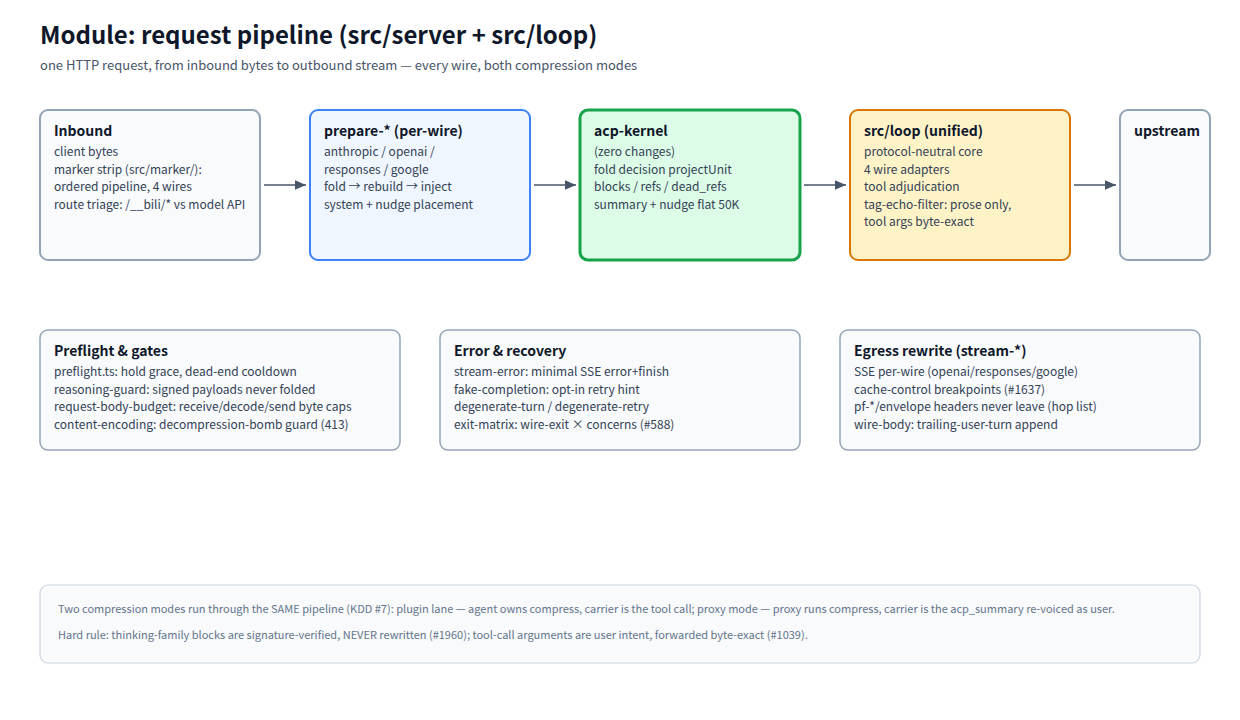
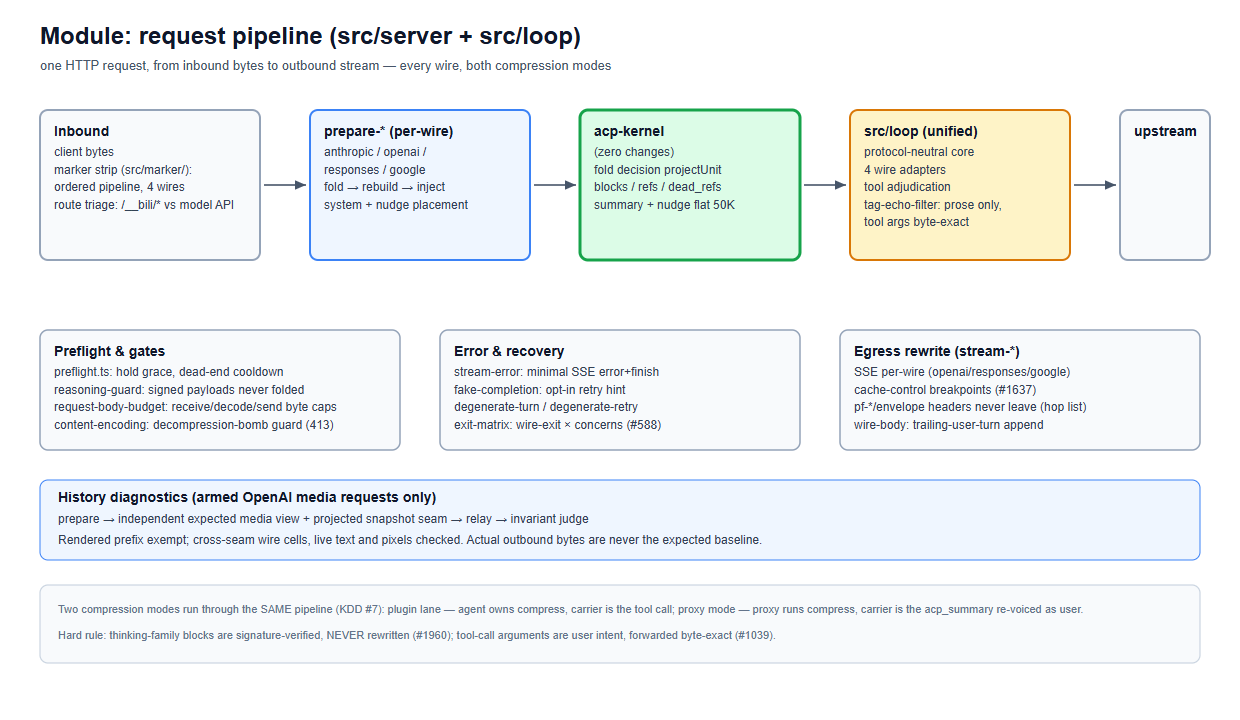
docs: map snapshot media diagnostics through the request pipeline
Assisted-by: Cindy (https://cindy.app)

diff --git a/docs/architecture/pipeline.md b/docs/architecture/pipeline.md
@@ -21,6 +21,8 @@ Every model-traffic request that reaches the proxy passes through this module: i
 
 **Prepare (per-wire).** `prepare-anthropic` / `prepare-openai` / `prepare-responses` / `prepare-google` convert the request to canonical cores (in-flight envelope fields such as host msgids are stripped here — see [identity](./identity.md)), run the fold→rebuild→injection sequence, and place the system message and the nudge where that wire requires it.
 
+**History diagnostics (OpenAI media).** When armed, `judge-media-projection.ts` independently constructs expected media bytes under the preparation lock. A snapshot tail boundary is mapped through resizing and wire merging; a wire cell crossing the seam remains checked in full. Relay passes the captured view/boundary and trusted image-transform receipts to `invariant-judge.ts`. The rendered prefix is exempt from tail fidelity, while changed live text or pixels fail. This diagnostic path never derives its expected bytes from the actual outbound body and never changes that body.
+
 **Kernel.** The canonical cores plus the session's `CompressionState` go to acp-kernel; the decision and its artifacts come back — see the [kernel module](./kernel.md).
 
 **Unified loop (`src/loop`).** A protocol-neutral core with four wire adapters performs tool adjudication and the prose tag-echo filter (`tag-echo-filter.ts` — prose only, arguments untouched). This is where the two compression modes keep the same code path (KDD #7): plugin mode suppresses tool + nudge injection because the agent owns compression; proxy mode emits the `acp_summary` carrier, re-voiced as a user message so strict backends keep a stable prefix.

diff --git a/docs/architecture/pipeline.zh-CN.md b/docs/architecture/pipeline.zh-CN.md
@@ -21,6 +21,8 @@
 
 **准备（按 wire）。** `prepare-anthropic` / `prepare-openai` / `prepare-responses` / `prepare-google` 把请求转成 canonical cores（宿主 msgid 等 in-flight 信封字段在此剥掉——见 [identity](./identity.zh-CN.md)），跑折叠→重建→注入，把 system 与 nudge 落到该 wire 要求的位置。
 
+**历史诊断（OpenAI 媒体）。** 启用检查时，`judge-media-projection.ts` 在准备锁内独立构造预期媒体字节。快照尾部边界经过缩图和 wire 合并后重新定位；跨越边界的 wire 消息整体纳入检查。Relay 将捕获的预期视图、边界和可信图片变换凭据交给 `invariant-judge.ts`。服务端渲染前缀豁免尾部保真检查，但修改实时文本或像素仍会失败。预期字节不从实际出站包推导，此诊断路径也不改写出站包。
+
 **内核。** canonical cores 加会话的 `CompressionState` 进 acp-kernel，判定与产物回来——见 [kernel 模块](./kernel.zh-CN.md)。
 
 **统一 loop（`src/loop`）。** 协议中立核心 + 4 个 wire 适配器，做工具裁决与散文 tag-echo 过滤（`tag-echo-filter.ts`——只滤散文、参数不动）。两种压缩模式在这里共用同一条代码路径（KDD #7）：plugin 模式抑制 tool + nudge 注入（agent 自己压）；proxy 模式发 `acp_summary` 载体、改口为 user 消息，让严格后端保持前缀稳定。

diff --git a/docs/architecture.zh-CN.md b/docs/architecture.zh-CN.md
@@ -21,7 +21,7 @@
 | 模块 | 一句话 | 页面 | 状态 |
 |---|---|---|---|
 | `storage` | 统一 SQLite 存储（表族 / kstate / ckpt / GC） | [storage.zh-CN.md](./architecture/storage.zh-CN.md) · [EN](./architecture/storage.md) | ✅ |
-| `pipeline` | 请求管道（handle / prepare-* / relay / inject） | [pipeline.zh-CN.md](./architecture/pipeline.zh-CN.md) · [EN](./architecture/pipeline.md) | ✅ |
+| `pipeline` | 请求管道（handle / prepare-* / relay / inject + 媒体诊断） | [pipeline.zh-CN.md](./architecture/pipeline.zh-CN.md) · [EN](./architecture/pipeline.md) | ✅ |
 | `lanes` | 宿主车道（dsh / pi / opencode / codex / 裸代理 + lane-decisions） | [lanes.zh-CN.md](./architecture/lanes.zh-CN.md) · [EN](./architecture/lanes.md) | ✅ |
 | `kernel` | 压缩内核（acp-kernel：折叠 / 摘要 / ref 账本） | [kernel.zh-CN.md](./architecture/kernel.zh-CN.md) · [EN](./architecture/kernel.md) | ✅ |
 | `identity` | 会话与消息身份（session id / persona fork / msgid 通道） | [identity.zh-CN.md](./architecture/identity.zh-CN.md) · [EN](./architecture/identity.md) | ✅ |

diff --git a/docs/architecture.md b/docs/architecture.md
@@ -21,7 +21,7 @@ How to read it:
 | Module | One line | Pages | Status |
 |---|---|---|---|
 | `storage` | Unified SQLite: table family, kstate, checkpoints, GC | [storage.md](./architecture/storage.md) · [zh](./architecture/storage.zh-CN.md) | ✅ |
-| `pipeline` | Request pipeline (handle / prepare-* / relay / inject) | [pipeline.md](./architecture/pipeline.md) · [zh](./architecture/pipeline.zh-CN.md) | ✅ |
+| `pipeline` | Request pipeline (handle / prepare-* / relay / inject + media diagnostics) | [pipeline.md](./architecture/pipeline.md) · [zh](./architecture/pipeline.zh-CN.md) | ✅ |
 | `lanes` | Host lanes (dsh / pi / opencode / codex / bare proxy + lane-decisions) | [lanes.md](./architecture/lanes.md) · [zh](./architecture/lanes.zh-CN.md) | ✅ |
 | `kernel` | Compression engine (acp-kernel: folds, summaries, ref ledger) | [kernel.md](./architecture/kernel.md) · [zh](./architecture/kernel.zh-CN.md) | ✅ |
 | `identity` | Session & message identity (session id, persona fork, msgid channels) | [identity.md](./architecture/identity.md) · [zh](./architecture/identity.zh-CN.md) | ✅ |

diff --git a/reference/architecture.md b/reference/architecture.md
@@ -28,6 +28,7 @@ billion-context/
 │   │   ├── prepare-anthropic.ts  #   Anthropic request preparation (fold → rebuild → system/nudge injection) (#1440)
 │   │   ├── prepare-google.ts     #   Gemini request preparation incl. :countTokens twin (#1440)
 │   │   ├── prepare-openai.ts     #   OpenAI chat request preparation (#1440)
+│   │   ├── judge-media-projection.ts # Independent expected media view + snapshot seam mapping
 │   │   ├── prepare-responses.ts  #   Responses request preparation + codex compact/prompt-cache helpers (#1440)
 │   │   ├── relay.ts             #   Upstream relay zone: forward() + fake-completion recovery (#1440 P2 cut 4)
 │   │   ├── side-request.ts       #   Tool-surface check for auxiliary side requests
